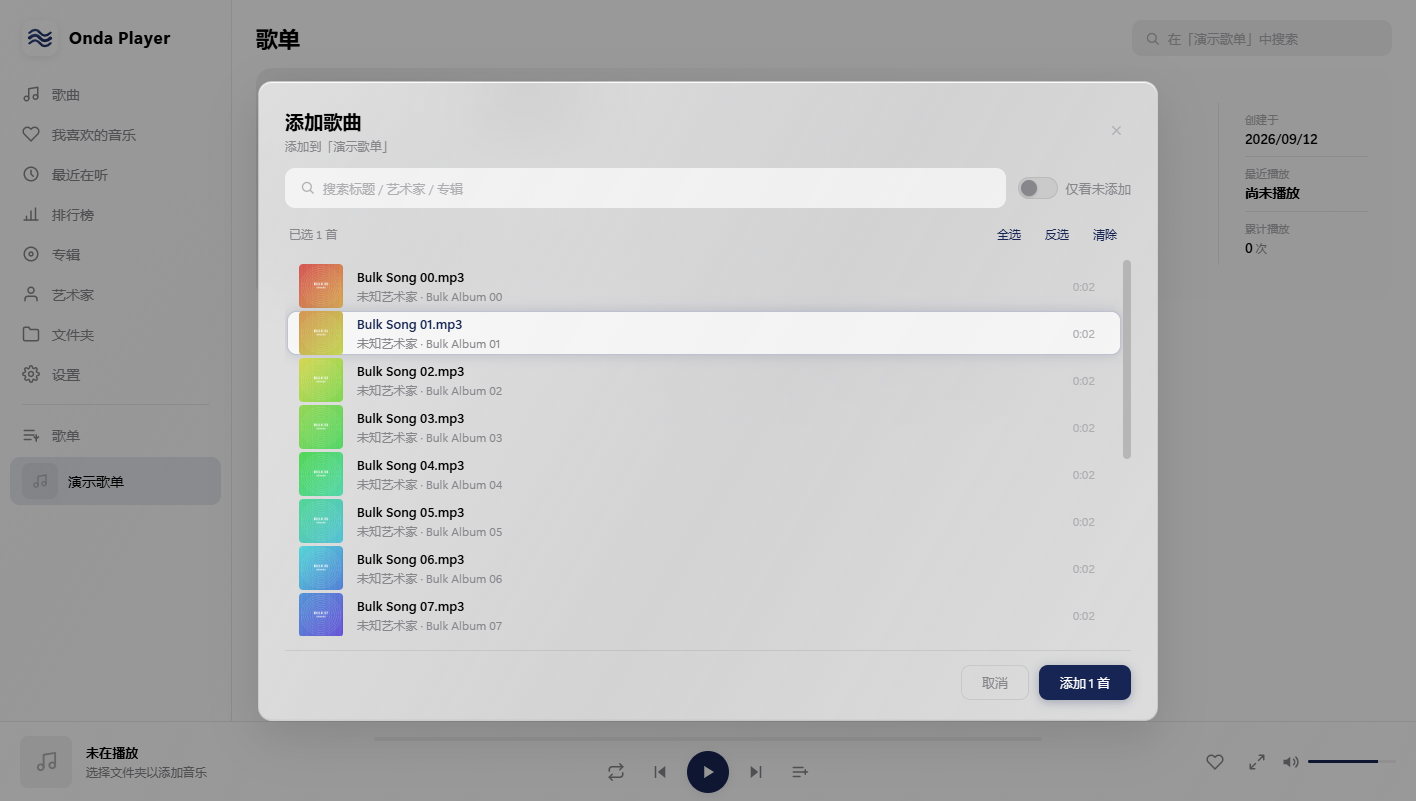
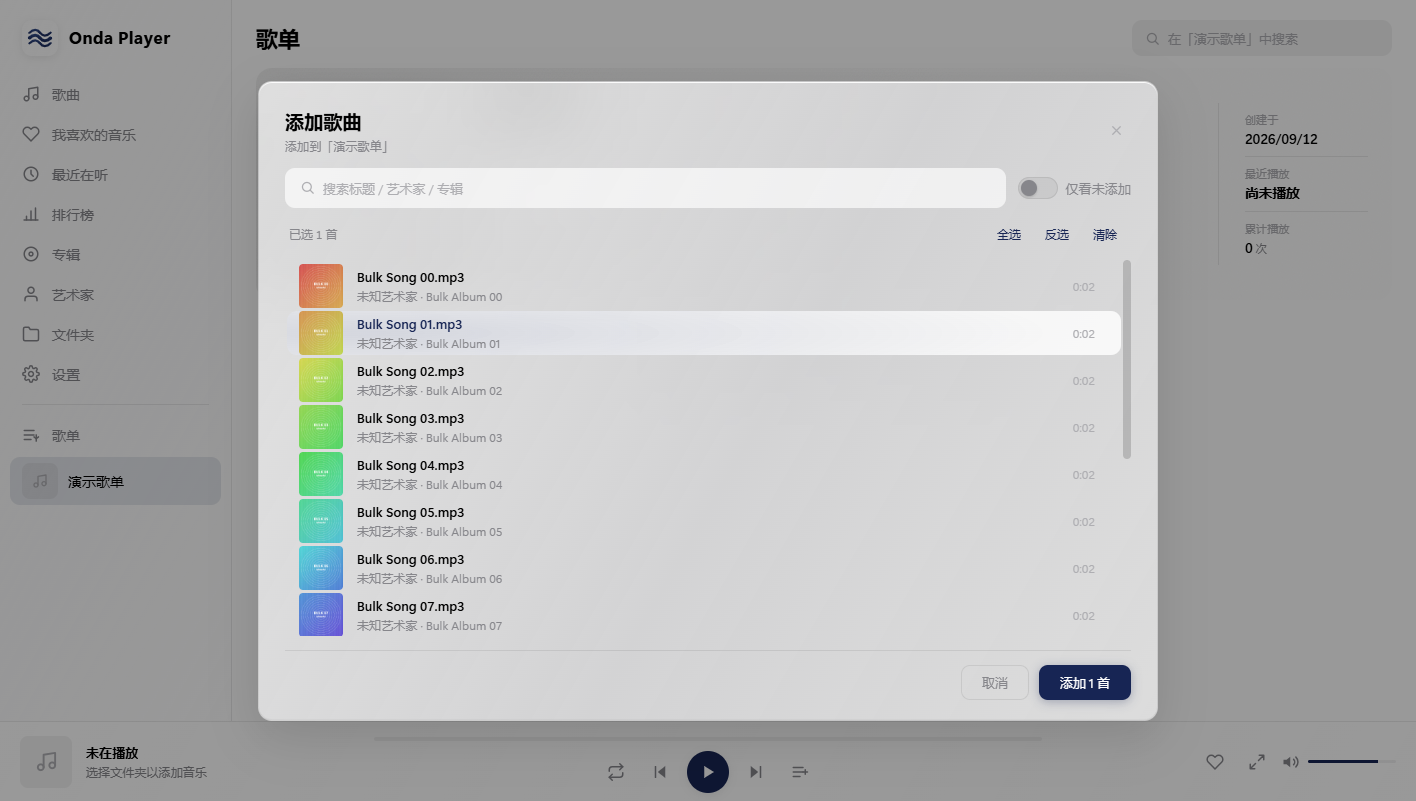
feat: 添加歌曲弹层选中态改侧栏同款柔色胶囊、行距加大；修复弹层卡顿（暂停背景光斑动画+行级 content-visibility）

Changed region(s): [[0.1864, 0.3745, 0.3729, 0.437]]

diff --git a/src/views/PlaylistsView.vue b/src/views/PlaylistsView.vue
@@ -34,6 +34,15 @@ const ui = useUiStore()
 onMounted(() => {
   if (!playlistStore.loaded) playlistStore.load()
   consumeCreateRequest()
+  // 右键菜单在别的页面置位的请求标记：挂载时补消费（否则切换视图时 watcher
+  // 尚未注册、变更被错过，标记永远卡住）
+  if (ui.playlistAddSongs && current.value?.id === ui.playlistAddSongs) {
+    ui.playlistAddSongs = null
+    openAdd()
+  } else if (ui.playlistEditCover && current.value?.id === ui.playlistEditCover) {
+    ui.playlistEditCover = null
+    showCoverPicker.value = true
+  }
   // 数据早已就绪时 watcher 不会触发，挂载时补一次登记
   plReveal.refresh()
 })

diff --git a/src/styles/main.css b/src/styles/main.css
@@ -288,6 +288,14 @@ select {
   height: 18px;
 }
 
+/* 弹层打开时暂停其后方的呼吸光斑/氛围光斑：
+   毛玻璃 backdrop-filter 会对动画背景逐帧重模糊，是弹层卡顿的主因（!important
+   用于压过组件内 scoped 的 animation 简写） */
+body.modal-open .blob,
+body.modal-open .ambient-blob {
+  animation-play-state: paused !important;
+}
+
 /* ---------- 均衡器动画（播放中指示，全局共用） ---------- */
 
 .eq {
